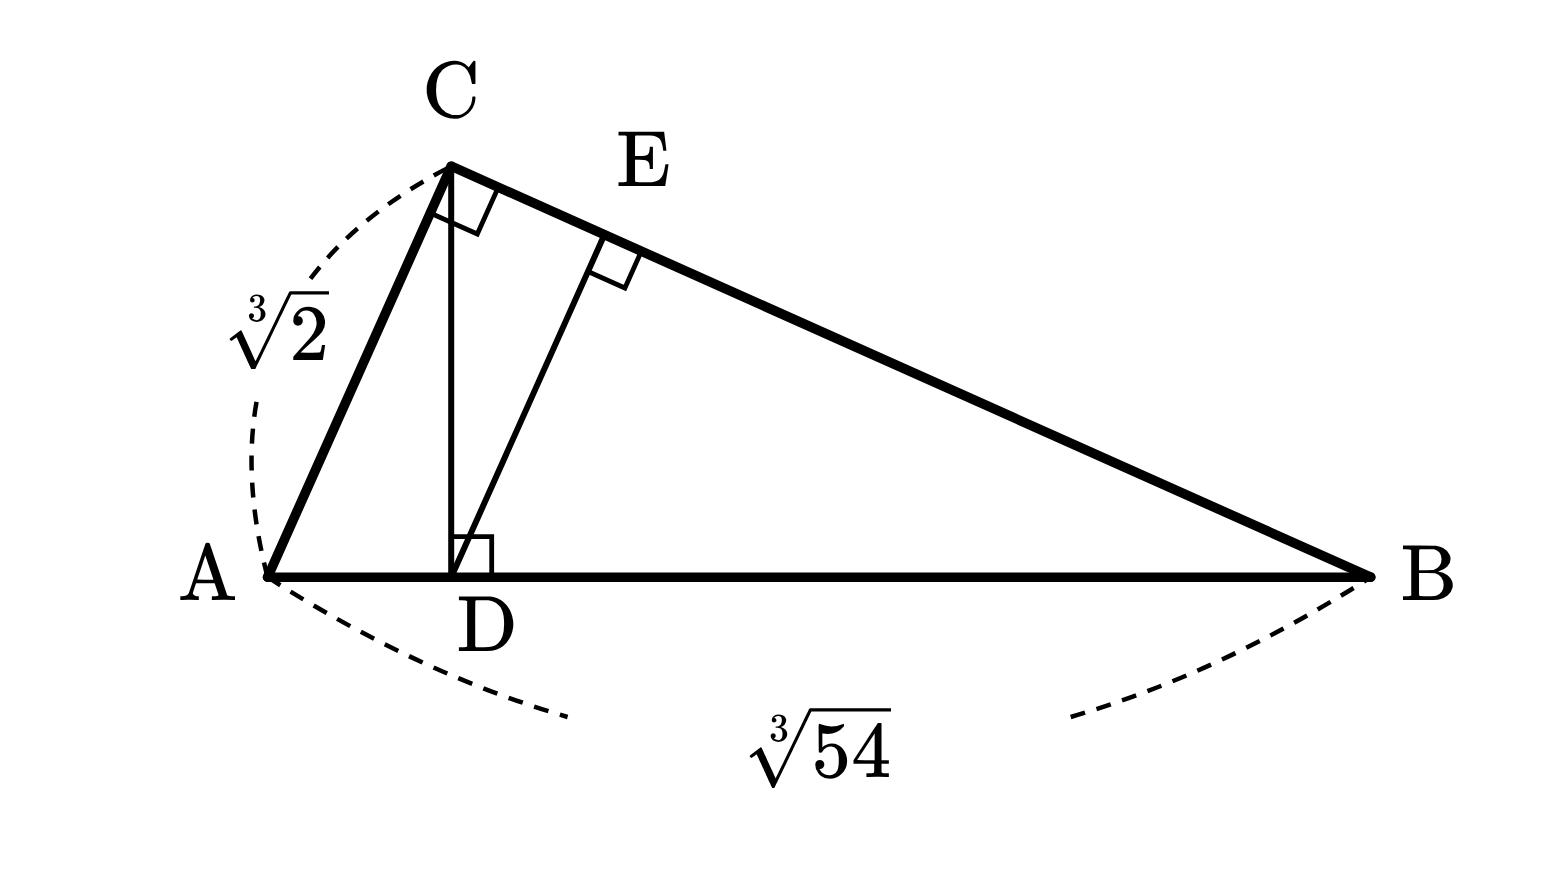
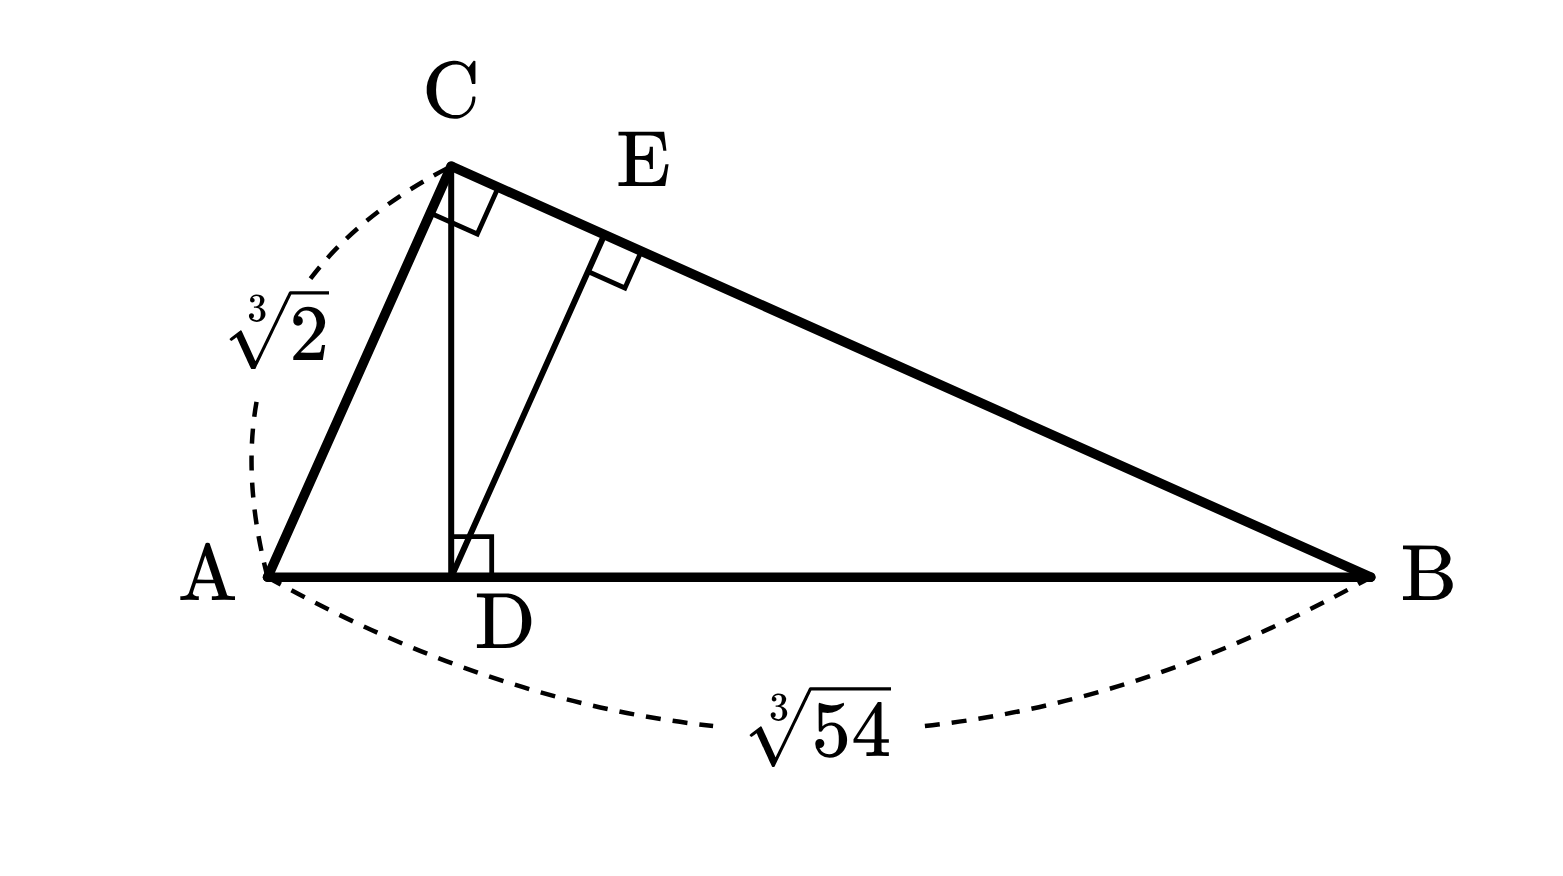
CLIMATH(m) 대수 1단원 32번 그림: 아래 점선을 글자 가까이까지, 곡률 0.14
Claude-Session: https://claude.ai/code/session_014WGsHSxW1TsHk3SpmxydRw

diff --git a/유형문제집/도구/그림/draw6.py b/유형문제집/도구/그림/draw6.py
@@ -31,7 +31,7 @@ def right_mark(F, v, p, q, k=0.06):
                  % (F.P(*p1) + F.P(*p2) + F.P(*p3)))
 
 
-def dim_arc(F, p, q, label, side, bulge=16, size=20, gap=6, cut=True, minr=0.2):
+def dim_arc(F, p, q, label, side, bulge=16, size=20, gap=6, cut=True, minr=0.2, chars=None):
     """선분 pq의 길이 표시: side 쪽(화면 법선 방향 +1/-1)으로 휜 점선 호.
     점선의 가운데를 끊고 그 자리에 길이를 쓴다(사용자 요청, 모든 그림). cut=False는 예전 모양(호 바깥에 글자)."""
     import math
@@ -43,7 +43,7 @@ def dim_arc(F, p, q, label, side, bulge=16, size=20, gap=6, cut=True, minr=0.2):
     nx, ny = -dy / n * side, dx / n * side
     cx, cy = mx + nx * 2 * bulge, my + ny * 2 * bulge
     if cut:
-        arcs, (lx, ly) = cut_arc(x1, y1, cx, cy, x2, y2, label, size)
+        arcs, (lx, ly) = cut_arc(x1, y1, cx, cy, x2, y2, label, size, chars=chars)   # chars: 보이는 글자 수(∛54처럼 TeX가 길 때 끊는 길이를 글자에 맞춤)
         F.svg += arcs
         F.labels.append((lx, ly, label, size, "cc", "dim"))
         return

diff --git a/유형문제집/도구/그림/draw_alg1.py b/유형문제집/도구/그림/draw_alg1.py
@@ -62,8 +62,8 @@ def base32(F, A, B, C, D, E, dlab=(0, 8)):
 def fig_k32():
     A, B, C, D, E = _k32()
     F = geo((-0.9, 6.5), (-1.3, 2.65), 52, (34, 30, 34, 20))
-    base32(F, A, B, C, D, E, (12, 1))                     # D는 AB에 붙이고 살짝 오른쪽(사용자)
-    dim_arc(F, A, C, r"\sqrt[3]{2}", -1, 22); dim_arc(F, A, B, r"\sqrt[3]{54}", 1, 0, minr=0.16)   # 아래 호는 곡률을 낮춤(사용자, 선분 길이의 0.16배 — D 글자와 8px 이상)
+    base32(F, A, B, C, D, E, (18, 0))                     # D는 AB에 붙이고 살짝 오른쪽(사용자)
+    dim_arc(F, A, C, r"\sqrt[3]{2}", -1, 22); dim_arc(F, A, B, r"\sqrt[3]{54}", 1, 0, minr=0.14, chars=4)   # 사용자: 곡률 0.14, 점선을 글자 가까이까지
     return F.render()
 
 
